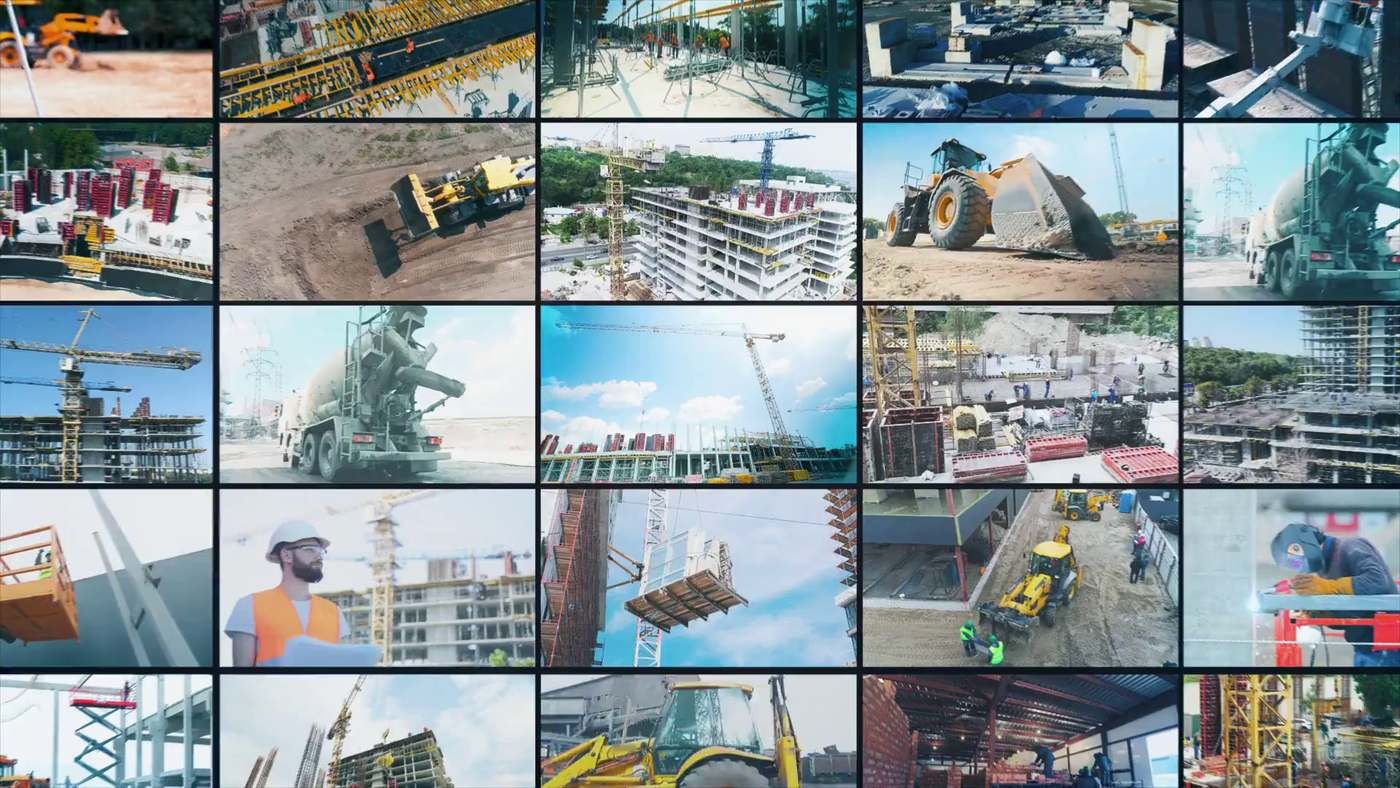
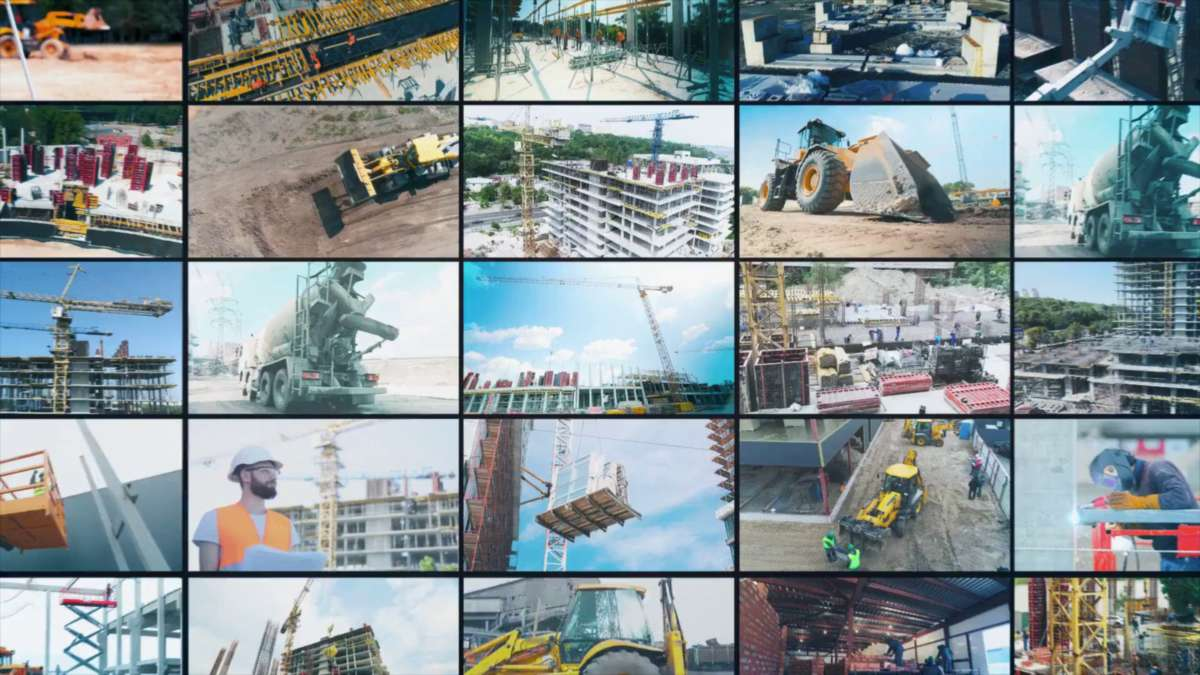
availability fix

Changed region(s): [[0.1542, 0.0, 0.37, 0.1556], [0.7092, 0.7467, 0.74, 0.7778], [0.4625, 0.9644, 0.4933, 0.9956]]

diff --git a/src/components/layout/Footer.tsx b/src/components/layout/Footer.tsx
@@ -17,54 +17,54 @@ export function Footer() {
 
           {/* Column 2: Links */}
           <div>
-            <h4 className="text-[14px] font-mono tracking-widest text-black font-bold uppercase mb-6">Rýchle odkazy</h4>
-            <ul className="space-y-3">
-              <li><Link href="/" className="hover:text-amber-600 transition-colors">Domov</Link></li>
-              <li><Link href="/sluzby" className="hover:text-amber-600 transition-colors">Služby</Link></li>
-              <li><Link href="/portfolio" className="hover:text-amber-600 transition-colors">Portfólio</Link></li>
-              <li><Link href="/blog" className="hover:text-amber-600 transition-colors">Blog</Link></li>
-              <li><Link href="/faq" className="hover:text-amber-600 transition-colors">Časté otázky (FAQ)</Link></li>
-              <li><Link href="/o-nas" className="hover:text-amber-600 transition-colors">O nás</Link></li>
-              <li><Link href="/kontakt" className="hover:text-amber-600 transition-colors">Kontakt</Link></li>
+            <h3 className="text-[14px] font-mono tracking-widest text-black font-bold uppercase mb-6">Rýchle odkazy</h3>
+            <ul className="space-y-1.5">
+              <li><Link href="/" className="inline-block py-1 hover:text-amber-600 transition-colors">Domov</Link></li>
+              <li><Link href="/sluzby" className="inline-block py-1 hover:text-amber-600 transition-colors">Služby</Link></li>
+              <li><Link href="/portfolio" className="inline-block py-1 hover:text-amber-600 transition-colors">Portfólio</Link></li>
+              <li><Link href="/blog" className="inline-block py-1 hover:text-amber-600 transition-colors">Blog</Link></li>
+              <li><Link href="/faq" className="inline-block py-1 hover:text-amber-600 transition-colors">Časté otázky (FAQ)</Link></li>
+              <li><Link href="/o-nas" className="inline-block py-1 hover:text-amber-600 transition-colors">O nás</Link></li>
+              <li><Link href="/kontakt" className="inline-block py-1 hover:text-amber-600 transition-colors">Kontakt</Link></li>
             </ul>
           </div>
 
           {/* Column 3: Services */}
           <div>
-            <h4 className="text-[14px] font-mono tracking-widest text-black font-bold uppercase mb-6">Naše služby</h4>
+            <h3 className="text-[14px] font-mono tracking-widest text-black font-bold uppercase mb-6">Naše služby</h3>
             <div className="grid grid-cols-2 gap-x-4 gap-y-2">
               <ul className="space-y-1 ">
-                <li><Link href="/sluzby/rodinne-domy" className="hover:text-amber-600 transition-colors">Rodinné domy</Link></li>
-                <li><Link href="/sluzby/komercna-vystavba" className="hover:text-amber-600 transition-colors">Komerčná výstavba</Link></li>
-                <li><Link href="/sluzby/rezidencne-budovy" className="hover:text-amber-600 transition-colors">Rezidenčné budovy</Link></li>
-                <li><Link href="/sluzby/priemyselne-objekty" className="hover:text-amber-600 transition-colors">Priemyselné objekty</Link></li>
-                <li><Link href="/sluzby/obcianske-stavby" className="hover:text-amber-600 transition-colors">Občianske stavby</Link></li>
+                <li><Link href="/sluzby/rodinne-domy" className="inline-block py-1 hover:text-amber-600 transition-colors">Rodinné domy</Link></li>
+                <li><Link href="/sluzby/komercna-vystavba" className="inline-block py-1 hover:text-amber-600 transition-colors">Komerčná výstavba</Link></li>
+                <li><Link href="/sluzby/rezidencne-budovy" className="inline-block py-1 hover:text-amber-600 transition-colors">Rezidenčné budovy</Link></li>
+                <li><Link href="/sluzby/priemyselne-objekty" className="inline-block py-1 hover:text-amber-600 transition-colors">Priemyselné objekty</Link></li>
+                <li><Link href="/sluzby/obcianske-stavby" className="inline-block py-1 hover:text-amber-600 transition-colors">Občianske stavby</Link></li>
 
               </ul>
               <ul className="space-y-2 text-[10px]">
-                <li><Link href="/sluzby/zakladanie-stavieb" className="hover:text-amber-600 transition-colors">Zakladanie stavieb</Link></li>
-                <li><Link href="/sluzby/monoliticke-konstrukcie" className="hover:text-amber-600 transition-colors">Monolitické konštr.</Link></li>
-                <li><Link href="/sluzby/murarske-prace" className="hover:text-amber-600 transition-colors">Murárske práce</Link></li>
-                <li><Link href="/sluzby/tesarske-prace" className="hover:text-amber-600 transition-colors">Tesárske práce</Link></li>
-                <li><Link href="/sluzby/omietky" className="hover:text-amber-600 transition-colors">Omietky</Link></li>
-                <li><Link href="/sluzby/potery" className="hover:text-amber-600 transition-colors">Potery</Link></li>
-                <li><Link href="/sluzby/obkladacske-prace" className="hover:text-amber-600 transition-colors">Obkladačské práce</Link></li>
-                <li><Link href="/sluzby/fasady" className="hover:text-amber-600 transition-colors">Fasády</Link></li>
-                <li><Link href="/sluzby/jadrove-vrtanie" className="hover:text-amber-600 transition-colors">Jadrové vŕtanie</Link></li>
-                <li><Link href="/sluzby/rezanie-otvorov" className="hover:text-amber-600 transition-colors">Rezanie otvorov</Link></li>
+                <li><Link href="/sluzby/zakladanie-stavieb" className="inline-block py-1 hover:text-amber-600 transition-colors">Zakladanie stavieb</Link></li>
+                <li><Link href="/sluzby/monoliticke-konstrukcie" className="inline-block py-1 hover:text-amber-600 transition-colors">Monolitické konštr.</Link></li>
+                <li><Link href="/sluzby/murarske-prace" className="inline-block py-1 hover:text-amber-600 transition-colors">Murárske práce</Link></li>
+                <li><Link href="/sluzby/tesarske-prace" className="inline-block py-1 hover:text-amber-600 transition-colors">Tesárske práce</Link></li>
+                <li><Link href="/sluzby/omietky" className="inline-block py-1 hover:text-amber-600 transition-colors">Omietky</Link></li>
+                <li><Link href="/sluzby/potery" className="inline-block py-1 hover:text-amber-600 transition-colors">Potery</Link></li>
+                <li><Link href="/sluzby/obkladacske-prace" className="inline-block py-1 hover:text-amber-600 transition-colors">Obkladačské práce</Link></li>
+                <li><Link href="/sluzby/fasady" className="inline-block py-1 hover:text-amber-600 transition-colors">Fasády</Link></li>
+                <li><Link href="/sluzby/jadrove-vrtanie" className="inline-block py-1 hover:text-amber-600 transition-colors">Jadrové vŕtanie</Link></li>
+                <li><Link href="/sluzby/rezanie-otvorov" className="inline-block py-1 hover:text-amber-600 transition-colors">Rezanie otvorov</Link></li>
               </ul>
             </div>
           </div>
 
           {/* Column 4: Contact */}
           <div>
-            <h4 className="text-[14px] font-mono tracking-widest text-black font-bold uppercase mb-6">Kontakt</h4>
-            <ul className="space-y-3">
+            <h3 className="text-[14px] font-mono tracking-widest text-black font-bold uppercase mb-6">Kontakt</h3>
+            <ul className="space-y-1.5">
               <li>
-                <a href="mailto:info@mnsp.sk" className="hover:text-amber-600 transition-colors">info@mnsp.sk</a>
+                <a href="mailto:info@mnsp.sk" className="inline-block py-1 hover:text-amber-600 transition-colors">info@mnsp.sk</a>
               </li>
               <li>
-                <a href="tel:+421950699585" className="hover:text-amber-600 transition-colors">+421 950 699 585</a>
+                <a href="tel:+421950699585" className="inline-block py-1 hover:text-amber-600 transition-colors">+421 950 699 585</a>
               </li>
               <li className="pt-2">
                 Jozefa Kozáčeka 829/2<br />
@@ -86,8 +86,8 @@ export function Footer() {
         <div className="border-t border-gray-100 mt-16 pt-8 flex flex-col md:flex-row items-center justify-between">
           <p>&copy; {new Date().getFullYear()} MNSP | Stavby a rekonštrukcie</p>
           <div className="flex space-x-6 mt-4 md:mt-0">
-            <Link href="/ochrana-sukromia" className="hover:text-amber-600 transition-colors">Ochrana súkromia</Link>
-            <Link href="/obchodne-podmienky" className="hover:text-amber-600 transition-colors">Obchodné podmienky</Link>
+            <Link href="/ochrana-sukromia" className="inline-block py-1 hover:text-amber-600 transition-colors">Ochrana súkromia</Link>
+            <Link href="/obchodne-podmienky" className="inline-block py-1 hover:text-amber-600 transition-colors">Obchodné podmienky</Link>
           </div>
         </div>
       </Container>

diff --git a/src/components/sections/Projects.tsx b/src/components/sections/Projects.tsx
@@ -44,7 +44,7 @@ function ProjectMeta({ budget, duration }: { budget?: string; duration?: string 
     <div className="grid grid-cols-2 gap-2 border-t border-gray-100 pt-4 mt-auto">
       {hasBudget && (
         <div className="space-y-1">
-          <span className="block text-[9px] font-mono uppercase tracking-wider text-gray-400">
+          <span className="block text-[9px] font-mono uppercase tracking-wider text-gray-500">
             ROZPOČET
           </span>
           <span className="block text-sm font-bold text-black">{budget}</span>
@@ -52,7 +52,7 @@ function ProjectMeta({ budget, duration }: { budget?: string; duration?: string 
       )}
       {hasDuration && (
         <div className="space-y-1">
-          <span className="block text-[9px] font-mono uppercase tracking-wider text-gray-400">
+          <span className="block text-[9px] font-mono uppercase tracking-wider text-gray-500">
             TRVANIE
           </span>
           <span className="block text-sm font-bold text-black">{duration}</span>
@@ -146,7 +146,7 @@ export function Projects({
             {viewMode === 'carousel' && (
                 <Link
                     href={`/portfolio?category=${selectedCategory}`}
-                    className="mt-6 md:mt-0 text-sm tracking-widest font-bold uppercase transition-colors shrink-0 text-amber-600 hover:text-black flex items-center group"
+                    className="mt-6 md:mt-0 text-sm tracking-widest font-bold uppercase transition-colors shrink-0 text-amber-700 hover:text-black flex items-center group"
                 >
                   Všetky projekty
                   <ChevronRight className="w-4 h-4 ml-1 transform transition-transform group-hover:translate-x-1" />
@@ -177,7 +177,7 @@ export function Projects({
 
                 {/* Locations */}
                 <div className="flex overflow-x-auto gap-2 pb-2 [&::-webkit-scrollbar]:hidden [-ms-overflow-style:none] [scrollbar-width:none] items-center">
-                  <MapPin className="w-4 h-4 text-gray-400 shrink-0 mr-2" />
+                  <MapPin className="w-4 h-4 text-gray-500 shrink-0 mr-2" />
                   <button
                       onClick={() => setSelectedLoc('all')}
                       className={`shrink-0 px-4 py-2 text-xs font-bold uppercase tracking-wider transition-all cursor-pointer rounded-full ${
@@ -258,7 +258,7 @@ export function Projects({
                             </div>
                           </div>
                           <div className="p-6 flex flex-col flex-1 leading-relaxed bg-zinc-50 relative z-10">
-                            <div className="flex items-center gap-2 text-[10px] font-mono tracking-widest text-gray-400 font-bold uppercase mb-3">
+                            <div className="flex items-center gap-2 text-[10px] font-mono tracking-widest text-zinc-600 font-bold uppercase mb-3">
                               <Calendar className="w-3 h-3 text-amber-600" />
                               <span>{`Rok ${proj.year}`}</span>
                             </div>
@@ -299,7 +299,7 @@ export function Projects({
                           </div>
                         </div>
                         <div className="p-6 flex flex-col flex-1 leading-relaxed bg-zinc-50 relative z-10">
-                          <div className="flex items-center gap-2 text-[10px] font-mono tracking-widest text-gray-400 font-bold uppercase mb-3">
+                          <div className="flex items-center gap-2 text-[10px] font-mono tracking-widest text-zinc-600 font-bold uppercase mb-3">
                             <Calendar className="w-3 h-3 text-amber-600" />
                             <span>{`Rok ${proj.year}`}</span>
                           </div>

diff --git a/src/components/layout/Header.tsx b/src/components/layout/Header.tsx
@@ -250,6 +250,9 @@ export function Header() {
           </Link>
           <button
             onClick={() => setIsMobileOpen(!isMobileOpen)}
+            aria-label={isMobileOpen ? 'Zavrieť menu' : 'Otvoriť menu'}
+            aria-expanded={isMobileOpen}
+            aria-controls="mobile-menu"
             className={`p-2  border transition-colors cursor-pointer ${
               isSolid ? 'border-zinc-200 hover:bg-zinc-50 text-zinc-900' : 'border-white/20 hover:bg-white/10 text-white'
             }`}
@@ -262,6 +265,7 @@ export function Header() {
 
       {/* MOBILE POPUP DRAWER NAVIGATION */}
       <div
+        id="mobile-menu"
         className={`min-[850px]:hidden bg-white border-b border-zinc-200 text-zinc-900 overflow-hidden shadow-lg absolute top-full left-0 right-0 overflow-y-auto transition-all duration-200 ease-out ${
           isMobileOpen
             ? 'max-h-[calc(100vh-80px)] opacity-100'

diff --git a/src/components/ui/SimpleContactForm.tsx b/src/components/ui/SimpleContactForm.tsx
@@ -113,7 +113,7 @@ export function SimpleContactForm({
         <div className={`grid grid-cols-1 ${hideCalculatorLink ? '' : 'sm:grid-cols-2'} gap-4 mt-5`}>
           <button
               type="submit"
-              className="w-full inline-flex items-center justify-center gap-2 px-6 py-3.5 bg-amber-500 text-white font-medium text-sm hover:bg-amber-400 transition-colors cursor-pointer "
+              className="w-full inline-flex items-center justify-center gap-2 px-6 py-3.5 bg-amber-500 text-zinc-950 font-bold text-sm hover:bg-amber-400 transition-colors cursor-pointer "
           >
             Odoslať
             <ArrowRight className="w-4 h-4 ml-1" />

diff --git a/app/layout.tsx b/app/layout.tsx
@@ -54,6 +54,13 @@ export default function RootLayout({
 }) {
   return (
     <html lang="sk">
+      <head>
+        {/* Lighthouse flagged this as worth ~300 ms of LCP: GA4 resolves
+            through analytics.google.com, and the connection was only being
+            opened after gtag.js had parsed. */}
+        <link rel="preconnect" href="https://www.googletagmanager.com" />
+        <link rel="preconnect" href="https://analytics.google.com" />
+      </head>
       <body className="antialiased text-gray-900 bg-white">
         <Header />
         <main className="min-h-screen">

diff --git a/src/components/sections/CTA.tsx b/src/components/sections/CTA.tsx
@@ -31,7 +31,7 @@ export function CTA({
                 </p>
               </div>
               {description && (
-                  <p className="text-zinc-500 text-sm leading-relaxed max-w-xl">
+                  <p className="text-zinc-300 text-sm leading-relaxed max-w-xl">
                     {description}
                   </p>
               )}
